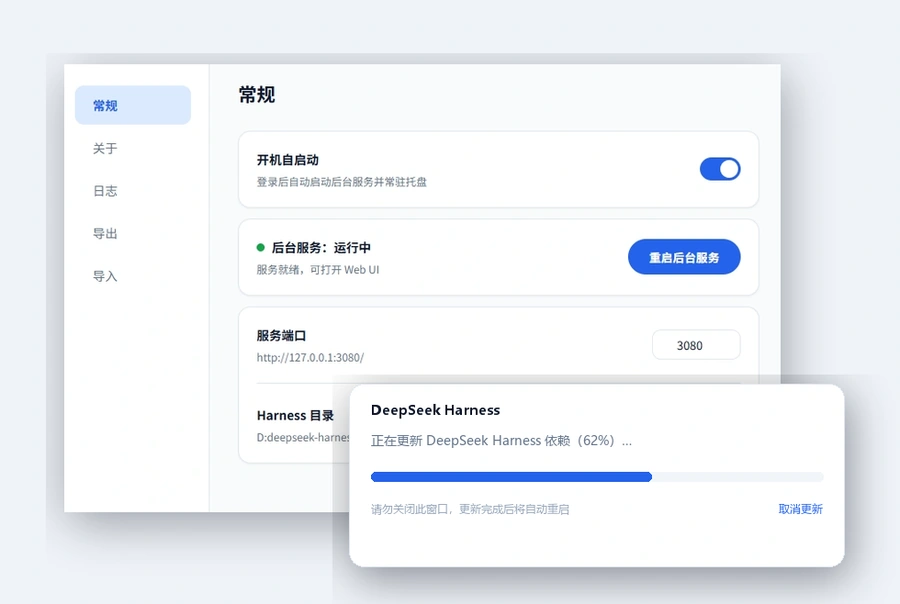
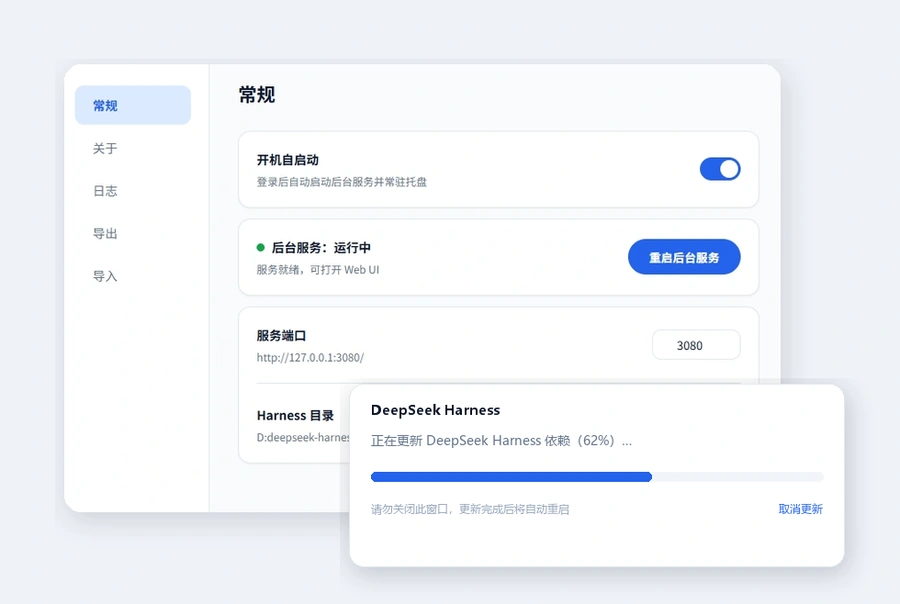
docs: 合成主图减弱阴影、常规页窗口圆角化

Changed region(s): [[0.0933, 0.6854, 0.9644, 0.9834], [0.4356, 0.2086, 0.9022, 0.6556], [0.0311, 0.2086, 0.0622, 0.7748]]

diff --git a/scripts/make_hero.py b/scripts/make_hero.py
@@ -33,6 +33,16 @@ def shadow(w, h, radius, blur, alpha):
     return sh
 
 
+def rounded(img, radius):
+    """给图片四角做圆角（alpha 遮罩）。"""
+    mask = Image.new("L", img.size, 0)
+    d = ImageDraw.Draw(mask)
+    d.rounded_rectangle([0, 0, img.width - 1, img.height - 1], radius=radius, fill=255)
+    out = img.copy()
+    out.putalpha(mask)
+    return out
+
+
 def main():
     # ---------- 底图：常规页真实截图 ----------
     base = Image.open(general).convert("RGBA")
@@ -40,6 +50,7 @@ def main():
     W = 780
     H = round(base.height * W / base.width)
     base = base.resize((W, H), Image.LANCZOS)
+    base = rounded(base, 18)  # 常规页窗口圆角
 
     # ---------- 画布 ----------
     pad = 70
@@ -47,16 +58,16 @@ def main():
     canvas_h = H + pad * 2 + 30
     canvas = Image.new("RGBA", (canvas_w, canvas_h), (238, 242, 248, 255))
 
-    # ---------- 背景窗口：常规页（带阴影） ----------
-    bg_shadow = shadow(W, H, 18, 24, 90)
-    canvas.alpha_composite(bg_shadow, (pad - 20, pad - 12))
+    # ---------- 背景窗口：常规页（浅阴影） ----------
+    bg_shadow = shadow(W, H, 18, 14, 36)
+    canvas.alpha_composite(bg_shadow, (pad - 10, pad - 6))
     canvas.alpha_composite(base, (pad, pad))
 
-    # ---------- 前景窗口：正在更新 DeepSeek Harness 依赖（带阴影） ----------
+    # ---------- 前景窗口：正在更新 DeepSeek Harness 依赖（浅阴影） ----------
     fw, fh = 540, 200
     fx, fy = canvas_w - fw - pad + 10, pad + H - fh + 60
-    fg_shadow = shadow(fw, fh, 16, 22, 110)
-    canvas.alpha_composite(fg_shadow, (fx - 18, fy - 10))
+    fg_shadow = shadow(fw, fh, 16, 13, 48)
+    canvas.alpha_composite(fg_shadow, (fx - 10, fy - 6))
     fg = Image.new("RGBA", (fw, fh), (0, 0, 0, 0))
     fd = ImageDraw.Draw(fg)
     fd.rounded_rectangle([0, 0, fw - 1, fh - 1], radius=16, fill=(255, 255, 255, 255))
